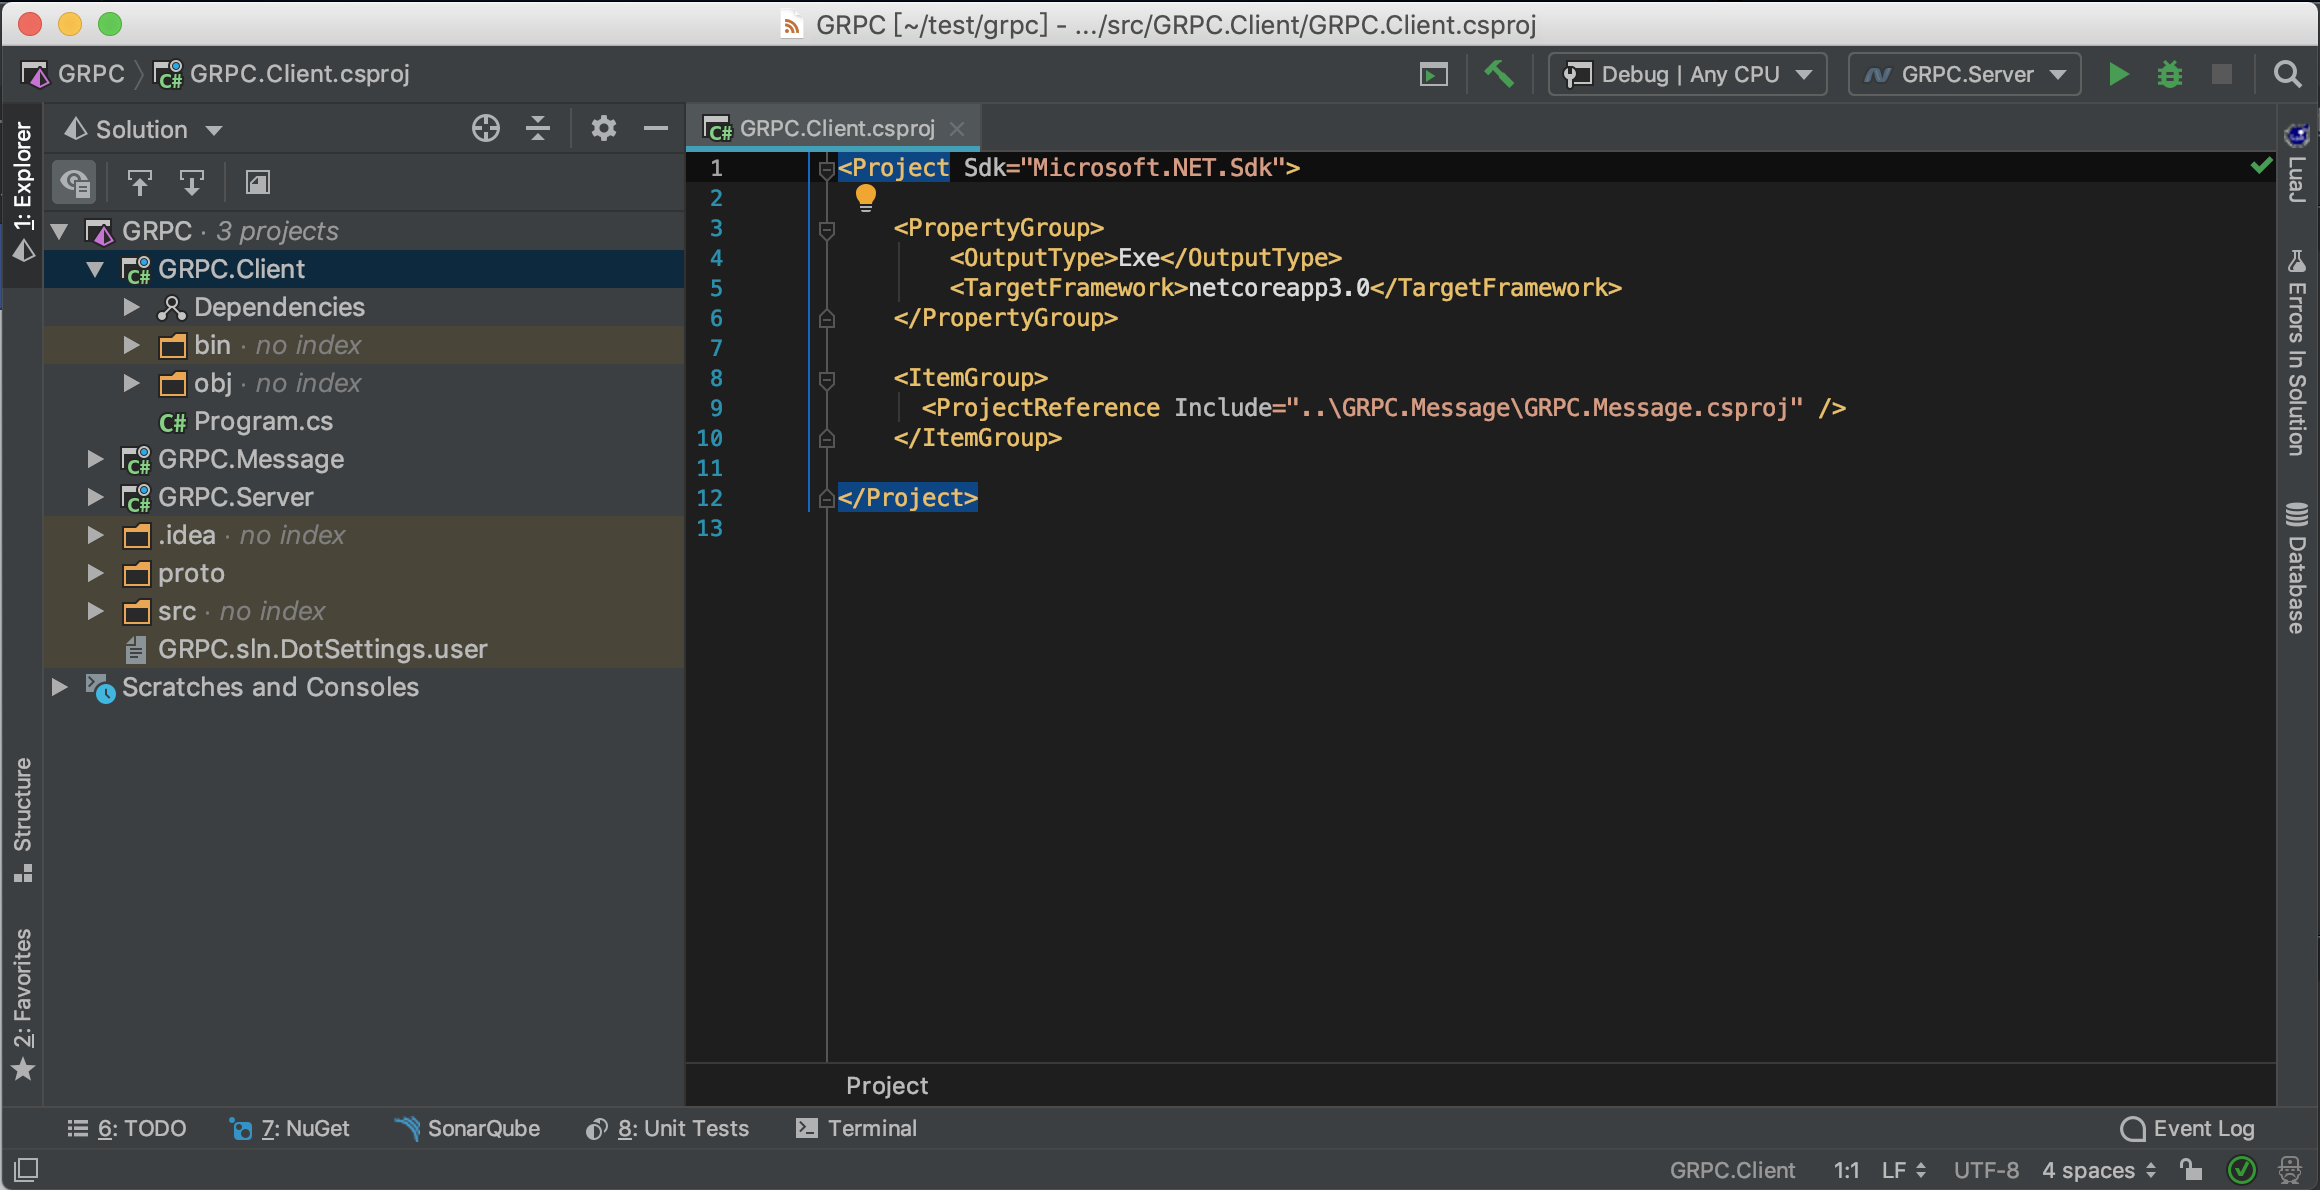
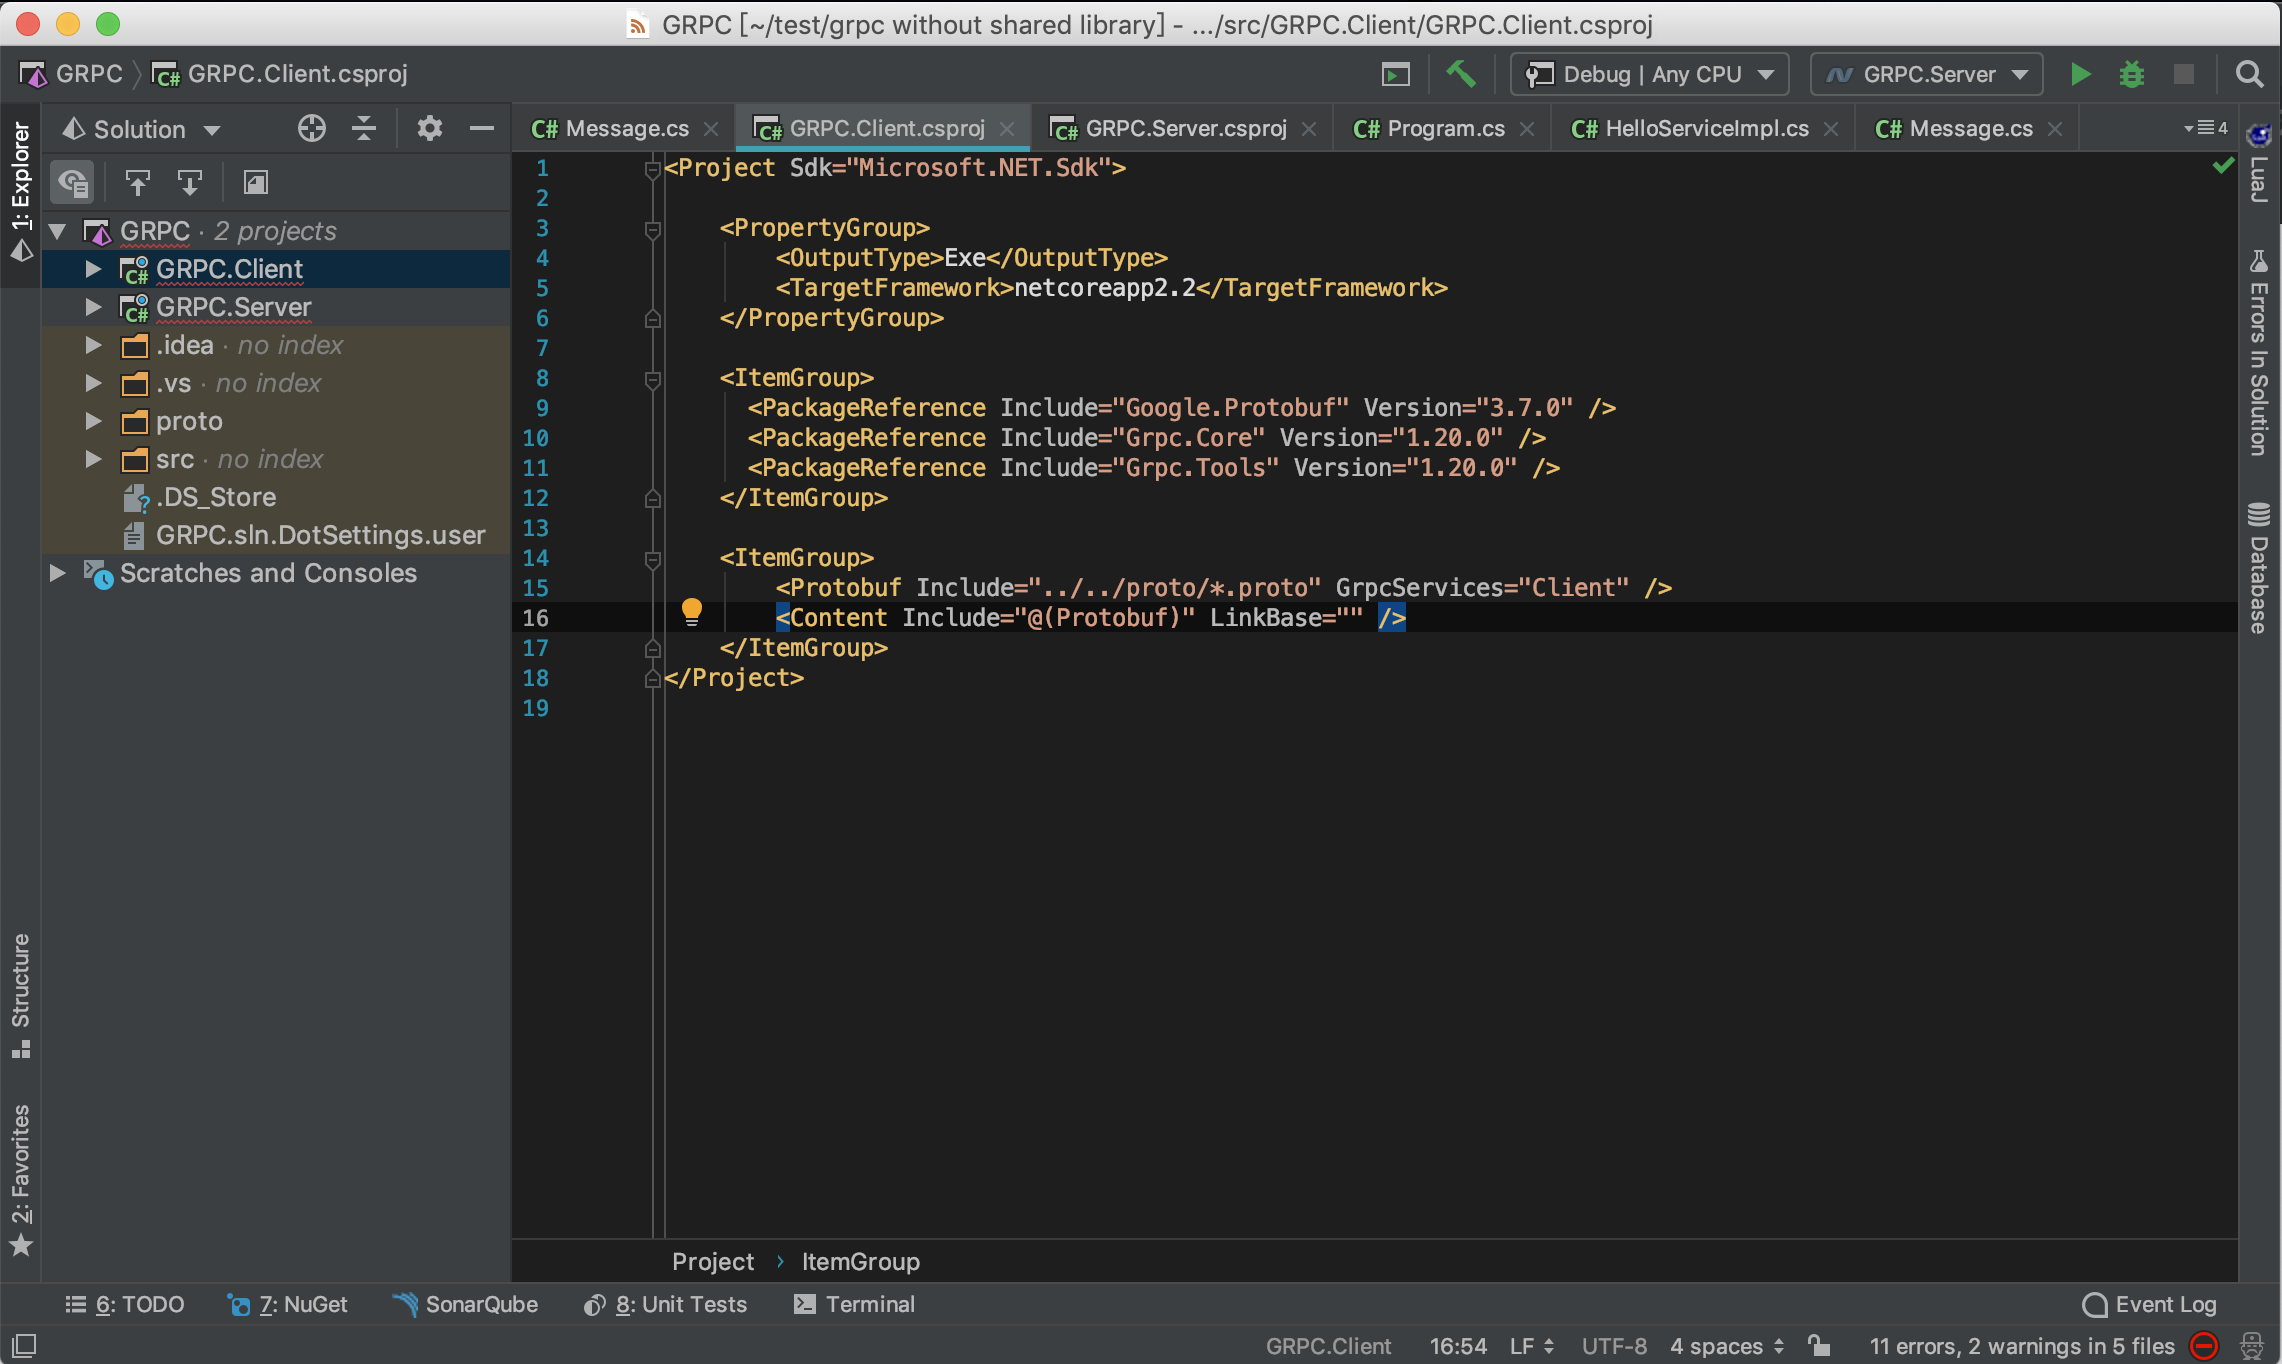
Adjust Post

Changed region(s): [[0.0, 0.0, 1.0, 1.0], [0.0, 0.6529, 0.0311, 0.9328], [0.0, 0.9639, 0.0311, 1.0]]

diff --git a/source/_posts/gRPC-Create-C-gRPC-client.md b/source/_posts/gRPC-Create-C-gRPC-client.md
@@ -4,11 +4,45 @@ date: 2019-04-18 14:24:33
 tags: [gRPC]
 ---
 
-要建立 gRPC 的 client，要先將 proto 檔產生對應的程式碼，建置成組件後在 Client 的專案將它加入參考使用。  
+要建立 gRPC 的 Client，須先將 GRPC.Tools、GRPC.Core、Google.Protobuf 這三個 NuGet 套件加入參考。  
 
 <!-- More -->
 
+```C#
+...
+<ItemGroup>
+    <PackageReference Include="Google.Protobuf" Version="3.7.0" />
+    <PackageReference Include="Grpc.Core" Version="1.20.0" />
+    <PackageReference Include="Grpc.Tools" Version="1.20.0" />
+</ItemGroup>
+...
+```
+
+<br/>
+
+
+然後設定從 Proto 檔產生需要的程式部分。
+
+```C#
+<ItemGroup>
+    <Protobuf Include="../../proto/*.proto" GrpcServices="Client" />
+    <Content Include="@(Protobuf)" LinkBase="" />
+</ItemGroup>
+```
+
 {% asset_img 1.png %}
+
+<br/>
+
+
+編譯後可在 obj 下看到產出的檔案。
+
+{% asset_img 2.png %}
+
+<br/>
+
+
+接著開始實作 Client。
 
 <br/>
 
@@ -92,4 +126,4 @@ namespace GRPC.Client
 
 運行起來 Client 就會透過 rpc 去跟 Server 調用，並將訊息回傳。  
 
-{% asset_img 2.png %}
+{% asset_img 3.png %}
